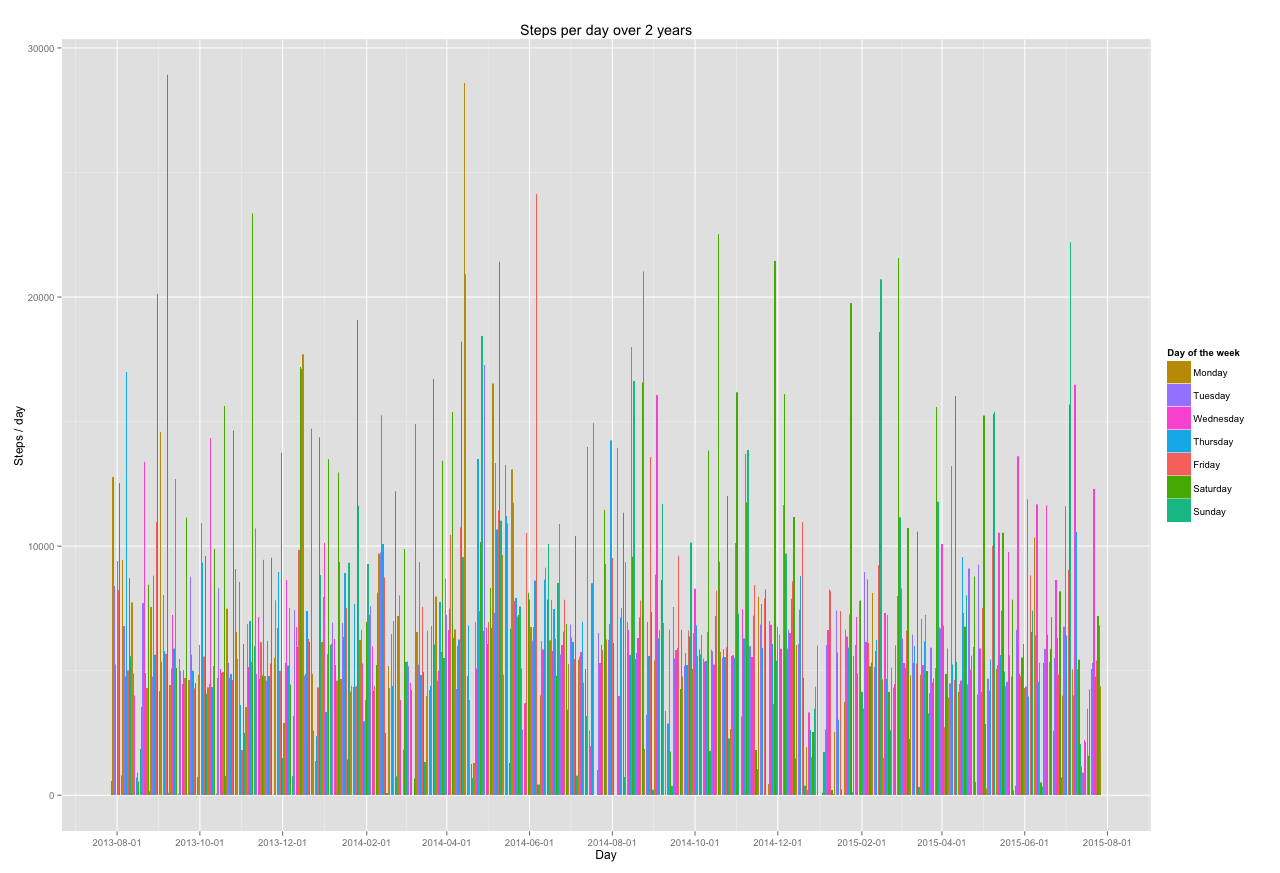
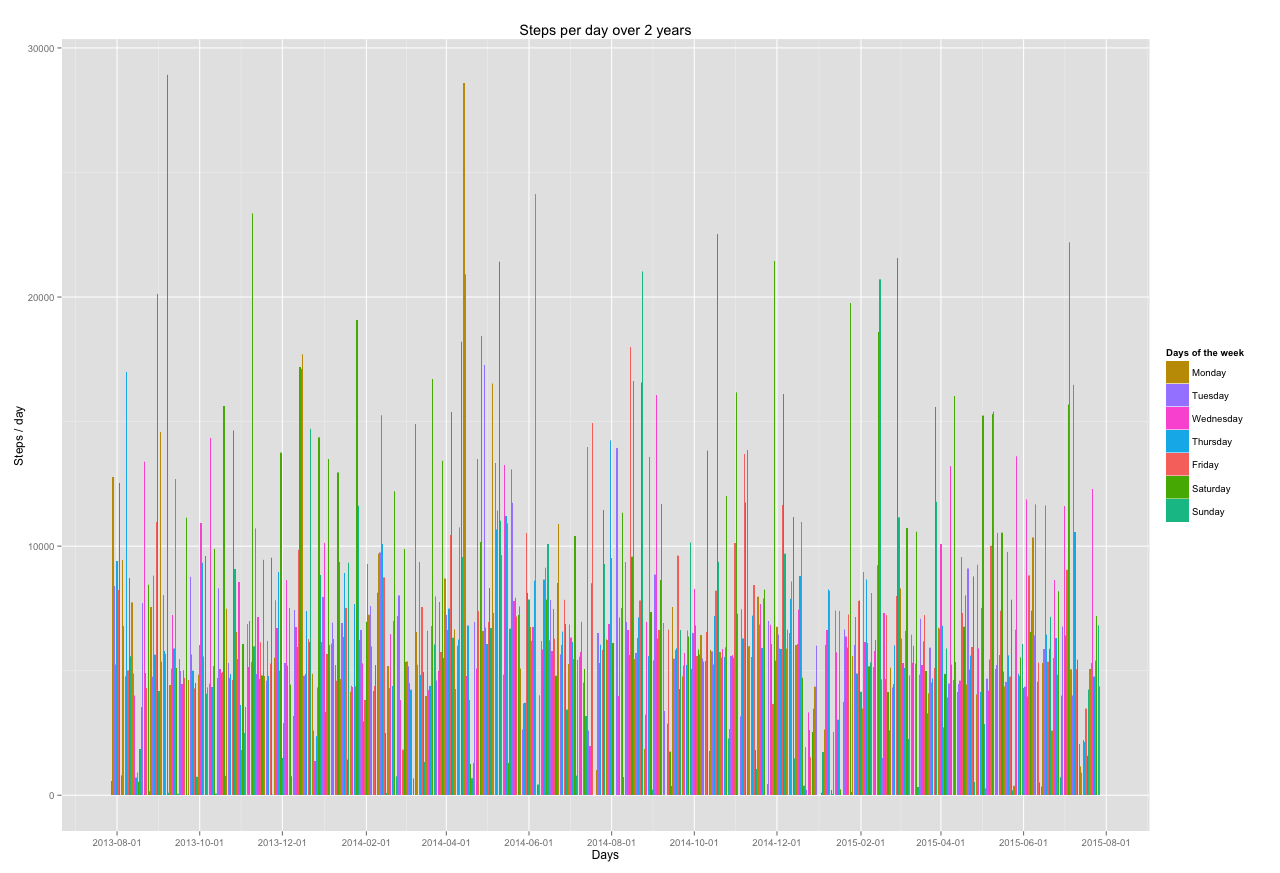
Fix typos

diff --git a/README.md b/README.md
@@ -66,8 +66,8 @@ On the `x` axis the days (2 years). On the `y` axis steps per day.
 
 ![Steps per day color](./steps-per-day_20130728-20150727.png)
 
-Each days of the week are assigned with a color. The goal was to be able to find visual patterns. We can see that Saturdays, in green, generally have peaks: shopping and running day :).
-By April 2015, Wednesdays are also trending as I have been doing some sport regularly on Wednesday.
+Each days of the week are assigned with a color. The goal was to visually find patterns. We can see that Saturdays, in green, generally have peaks: shopping and running day :).
+By April 2015, Wednesdays are also trending as I have been doing some sport regularly on this day.
 
 ## Conclusion
 
